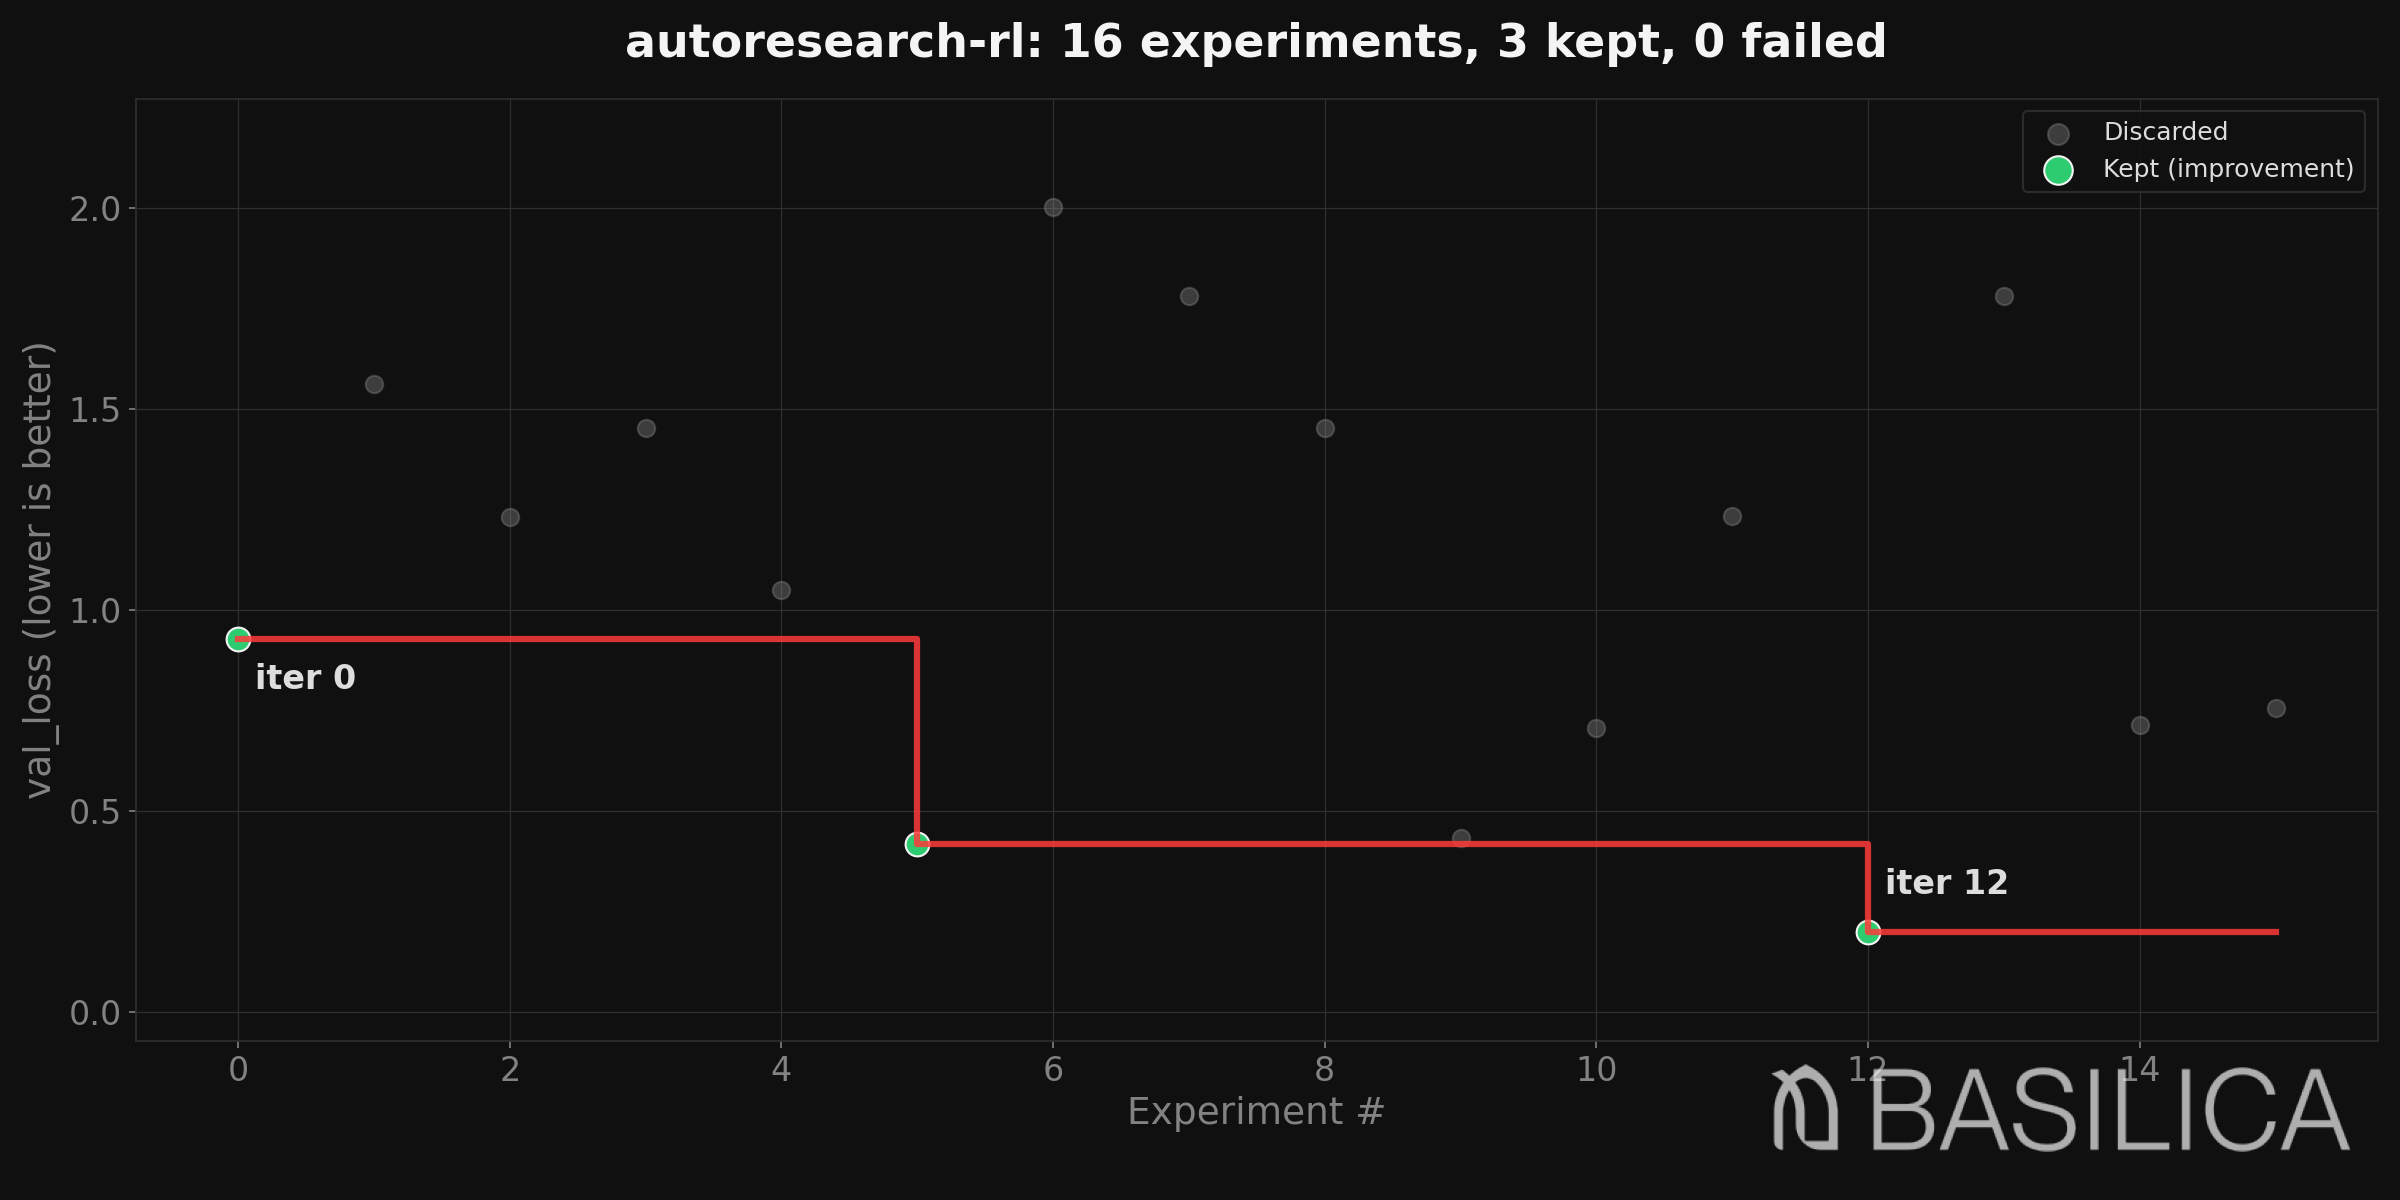
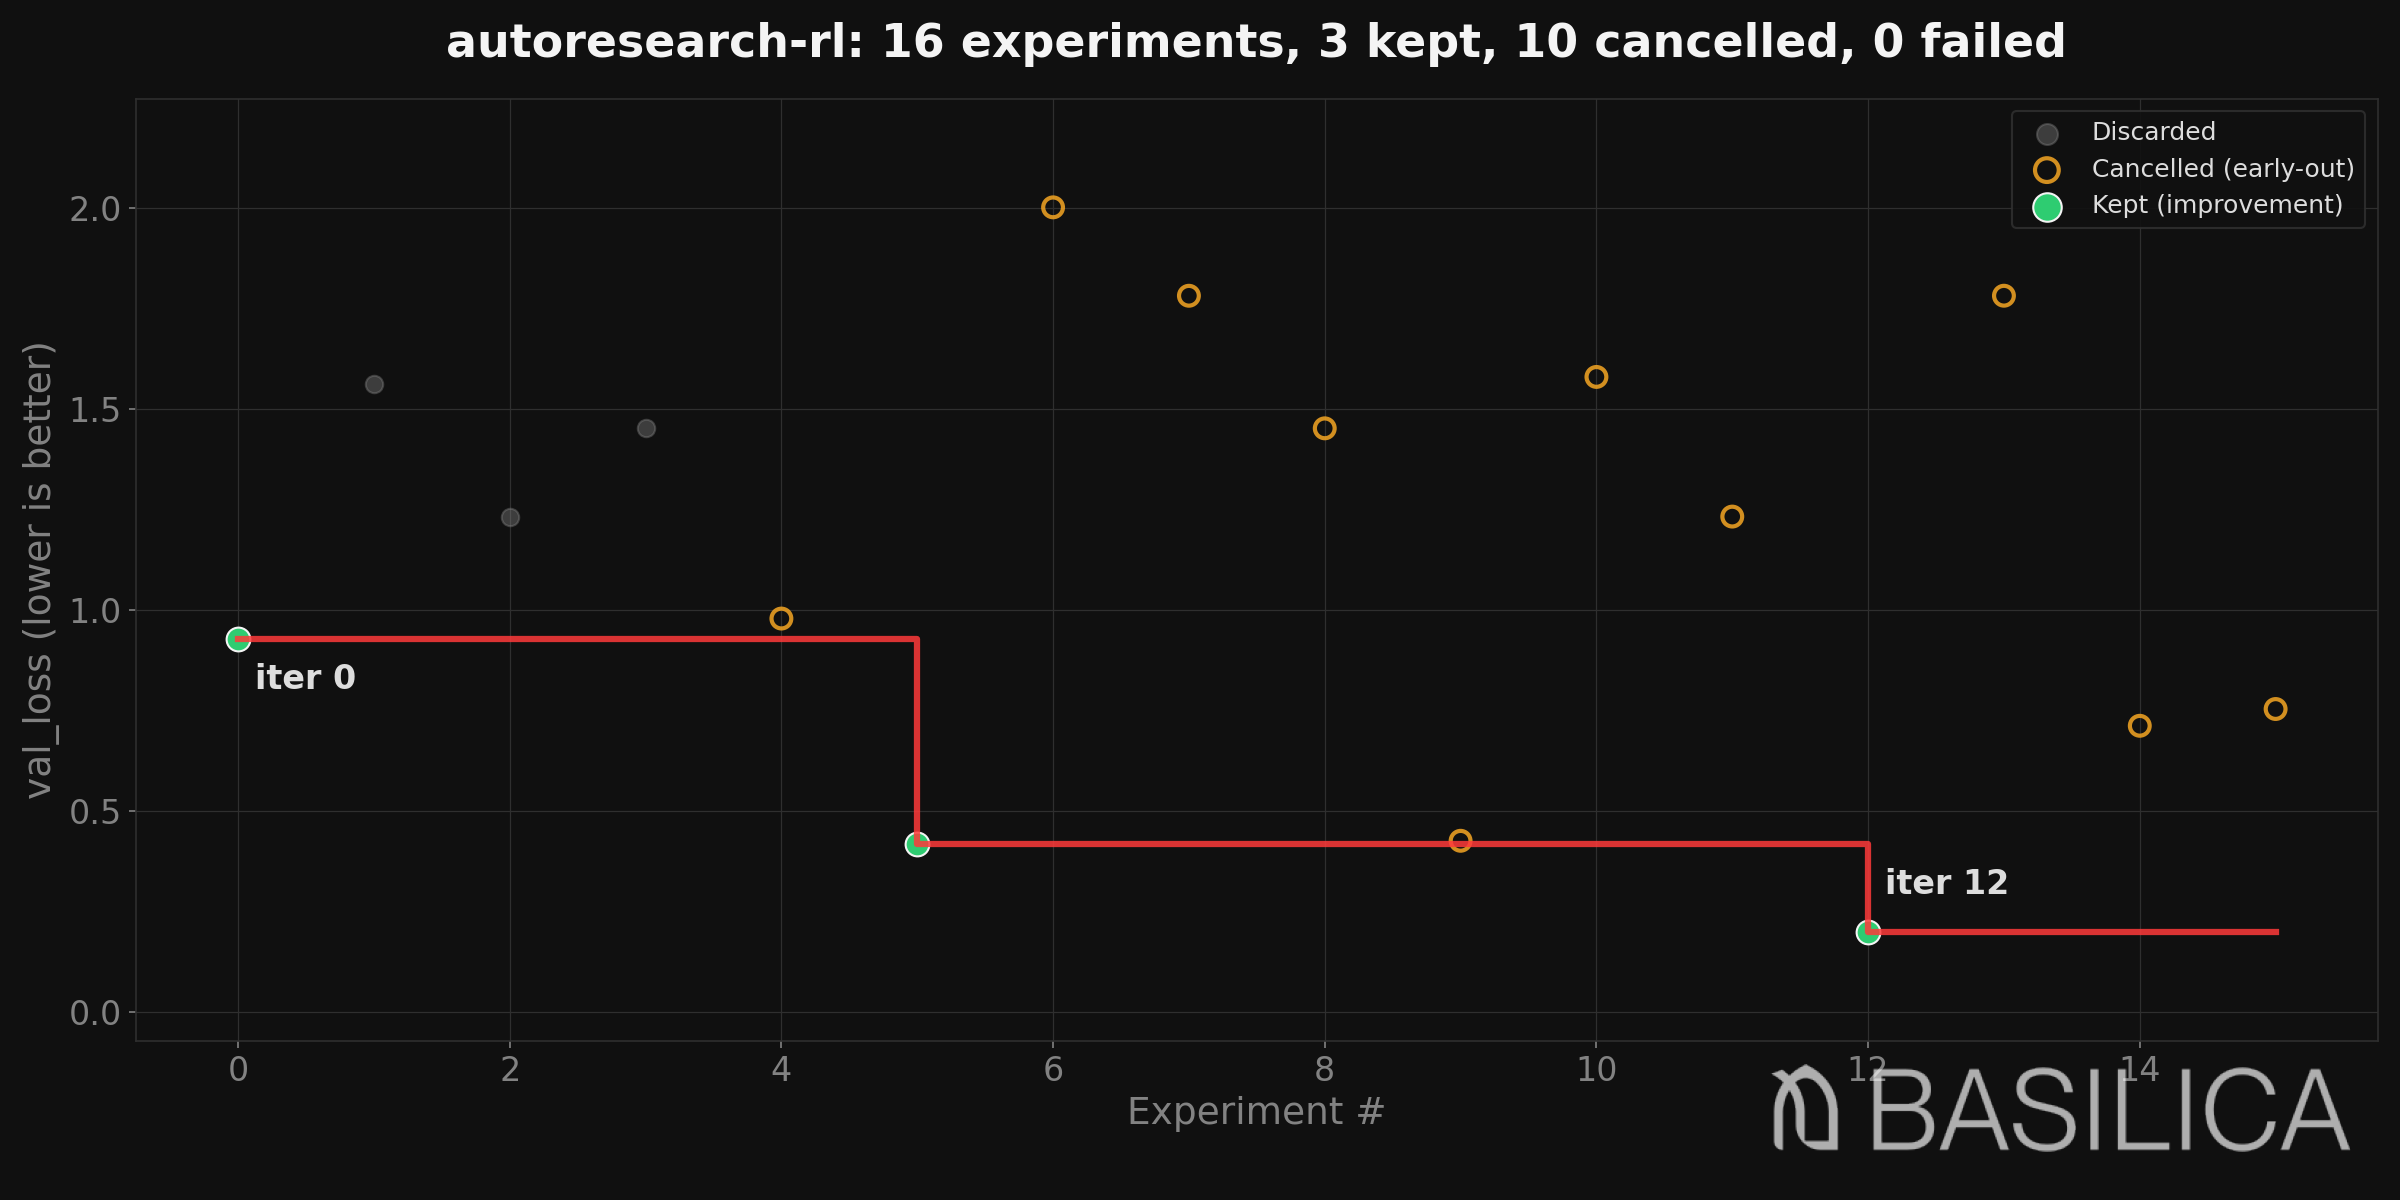
feat(chart): distinguish cancelled trials with amber rings
scripts/progress_chart.py predated Phase 2's status='cancelled' and
silently lumped cancelled trials with discarded gray. After all the
work to cooperatively cancel doomed trajectories, the chart hid the
single most legible signal of that work paying off.

Changes:
- New amber color (#F5A623) and a hollow-ring marker for
  status='cancelled' trials. Distinct from full-run discards (gray
  filled) and from kept improvements (green filled with ring).
- Title text now reads e.g. '16 experiments, 3 kept, 10 cancelled,
  0 failed' — cancelled count appears when nonzero.
- Y-axis range now considers cancelled values too (previously could
  truncate them off the plot).

Regenerated examples/parallel-cancel-showcase/progress.png. The 10
cancelled trials cluster visibly above val_loss=1.0 — exactly where
the cancel rule fires (trajectory not going to beat the running best).
Reading the chart left-to-right now tells the cooperative-cancel story
without needing the README.

Showcase README caption + 'What's in the chart' subsection updated to
mention the new color and what the clustering means.

velocity.md: added real-LLM (Kimi K2.6) entry covering 3 bugs surfaced
plus this chart entry.

No code changes to src/ or tests/; this is a docs + visualization fix.
460 fast tests / ruff clean / mypy 0 in 65 files.

diff --git a/scripts/progress_chart.py b/scripts/progress_chart.py
@@ -2,7 +2,8 @@
 """Generate a progress chart from a results.tsv ledger.
 
 Produces a scatter plot showing experiment-over-experiment improvement:
-  - Gray dots: discarded experiments
+  - Gray dots: discarded experiments (ran to completion, didn't beat best)
+  - Amber rings: cancelled experiments (cooperatively cancelled mid-trial)
   - Green dots: kept experiments (improvements)
   - Red x: failed experiments
   - Step function: running best score
@@ -39,6 +40,7 @@ BLK500 = "#828282"
 WHT0 = "#F4F4F4"
 WHT100ALT = "#DDDDDD"
 GREEN = "#2ECC71"
+AMBER = "#F5A623"  # cooperatively-cancelled trials
 
 
 @dataclass
@@ -95,6 +97,7 @@ def plot_progress(
 
     # Separate by status
     xs_discard, ys_discard = [], []
+    xs_cancel, ys_cancel = [], []
     xs_keep, ys_keep = [], []
     xs_fail, ys_fail = [], []
 
@@ -102,6 +105,11 @@ def plot_progress(
         if r.status == "keep":
             xs_keep.append(i)
             ys_keep.append(r.metric_value)
+        elif r.status == "cancelled":
+            # cancelled trials still recorded their last metric value;
+            # plot it but mark visually distinct from full-run discards.
+            xs_cancel.append(i)
+            ys_cancel.append(r.metric_value)
         elif r.metric_value == 0.0 or r.status in ("failed", "crash"):
             xs_fail.append(i)
             ys_fail.append(0.0)
@@ -142,6 +150,15 @@ def plot_progress(
         ax.scatter(
             xs_discard, ys_discard,
             c=BLK500, s=70, alpha=0.4, zorder=2, label="Discarded",
+        )
+
+    # Cancelled: amber hollow ring (signals 'cooperatively cancelled
+    # mid-trial' — distinct from a discarded full-run trial).
+    if xs_cancel:
+        ax.scatter(
+            xs_cancel, ys_cancel,
+            facecolors="none", edgecolors=AMBER, s=90, linewidths=2,
+            alpha=0.85, zorder=2, label="Cancelled (early-out)",
         )
 
     # Failed: red x
@@ -185,12 +202,14 @@ def plot_progress(
     n_total = len(rows)
     n_kept = len(xs_keep)
     n_failed = len(xs_fail)
+    n_cancel = len(xs_cancel)
     metric_name = rows[0].metric_name if rows else "metric"
     dir_label = "higher is better" if direction == "max" else "lower is better"
 
+    cancel_part = f", {n_cancel} cancelled" if n_cancel else ""
     chart_title = title or (
         f"autoresearch-rl: {n_total} experiments, "
-        f"{n_kept} kept, {n_failed} failed"
+        f"{n_kept} kept{cancel_part}, {n_failed} failed"
     )
     ax.set_title(chart_title, fontsize=22, fontweight="bold", color=WHT0, pad=20)
     ax.set_xlabel("Experiment #", fontsize=18, color=BLK500)
@@ -205,7 +224,7 @@ def plot_progress(
         text.set_color(WHT100ALT)
 
     # Y-axis range with margin
-    all_values = [v for v in ys_keep + ys_discard if v > 0]
+    all_values = [v for v in ys_keep + ys_discard + ys_cancel if v > 0]
     if all_values:
         ymin, ymax = min(all_values), max(all_values)
         margin = (ymax - ymin) * 0.15 if ymax > ymin else 0.05

diff --git a/docs/research/velocity.md b/docs/research/velocity.md
@@ -24,6 +24,8 @@ Per RLix-Adoption-Remediation.md R4.a: track wall-clock per phase to recalibrate
 | 2026-04-27 | #19 Basilica cancel | S | ~30m — _propagate_control POSTs control.json contents to deployment /control, size-cached for idempotence + 4 unit tests | bootstrap server already accepted POST; only the controller-side wiring was missing |
 | 2026-04-28 | Phase 5 deferral doc | S | ~30m — RLix-Phase5-Deferred.md with rationale, triggers, ~300-line implementation sketch + plan cross-references | no code; future-implementer brief so deferral does not become amnesia |
 | 2026-04-28 | Showcase example | S | ~1.5h — examples/parallel-cancel-showcase exercising Phase 1+2+3+4+6+7.5; surfaced 3 real bugs while building it | (a) parallel_wallclock unsupported by check_comparability, (b) progress paths not absolutized → broken under target.workdir != cwd, (c) R3.e check too strict for non-diff policies — all fixed with tests |
+| 2026-04-28 | Real-LLM validation (Kimi K2.6) | M | ~1h — wired tests/eval/test_real_llm.py against Moonshot api; behavioral assertions on 3 Phase 7 contracts; surfaced 3 real bugs | (a) temperature=0.7 hard-coded → Kimi rejected with 400 (now per-call kwarg, default 1.0), (b) HTTPError body discarded → opaque 400s (now captured), (c) test design flaw: contradictory 'explain before JSON' instruction → restructured to behavioral assertion. All 3 tests now pass against real LLM. |
+| 2026-04-28 | Chart cancelled-status color | S | ~30m — added amber ring for status=cancelled in scripts/progress_chart.py + title text; regenerated showcase chart | the chart now visibly tells the cooperative-cancel story (10 amber rings clustered in the doomed-trajectory region) instead of hiding cancelled trials in 'discarded' gray |
 
 ## Recalibration after first 10 PRs
 

diff --git a/examples/parallel-cancel-showcase/README.md b/examples/parallel-cancel-showcase/README.md
@@ -3,7 +3,7 @@
 A 13-second self-contained demo that you can run on your laptop. No GPU.
 No API keys. No accounts.
 
-![Showcase progress chart: 16 experiments, 3 improvements (iter 0 → 5 → 12), best val_loss = 0.20](progress.png)
+![Showcase progress chart: 16 experiments, 3 kept, 10 cancelled, 0 failed. Improvements at iter 0 → 5 → 12, best val_loss = 0.20. Amber rings show trials the guard cancelled mid-flight; gray dots show full-run discards.](progress.png)
 
 ## Why CPU?
 
@@ -93,14 +93,18 @@ plus cancellation cuts the wall by more than half.
 
 `progress.png` plots one point per iteration:
 
-- **Gray dots** — trials that ran and were not improvements (and
-  cancelled trials, which the chart script lumps with "discarded").
+- **Gray dots** — trials that ran to completion and were not improvements.
+- **Amber rings** — trials cancelled mid-flight by the guard. They cluster
+  in the high-loss region because that's exactly where the cancel rule fires
+  ("trajectory not going to beat the current best").
 - **Green dots** — trials that beat the running best.
 - **Red step function** — the running best score over time.
 
 The synthetic landscape has its optimum at `lr=3e-3, batch=32`. You can
 see the campaign find it by iter 12 (the third green dot at the bottom
-right).
+right). Reading the chart left-to-right tells you the cooperative-cancel
+story: 10 of 16 trials were cancelled, saving roughly 10 × ~1.3 s of
+wasted compute.
 
 ## Anatomy of the trial
 
